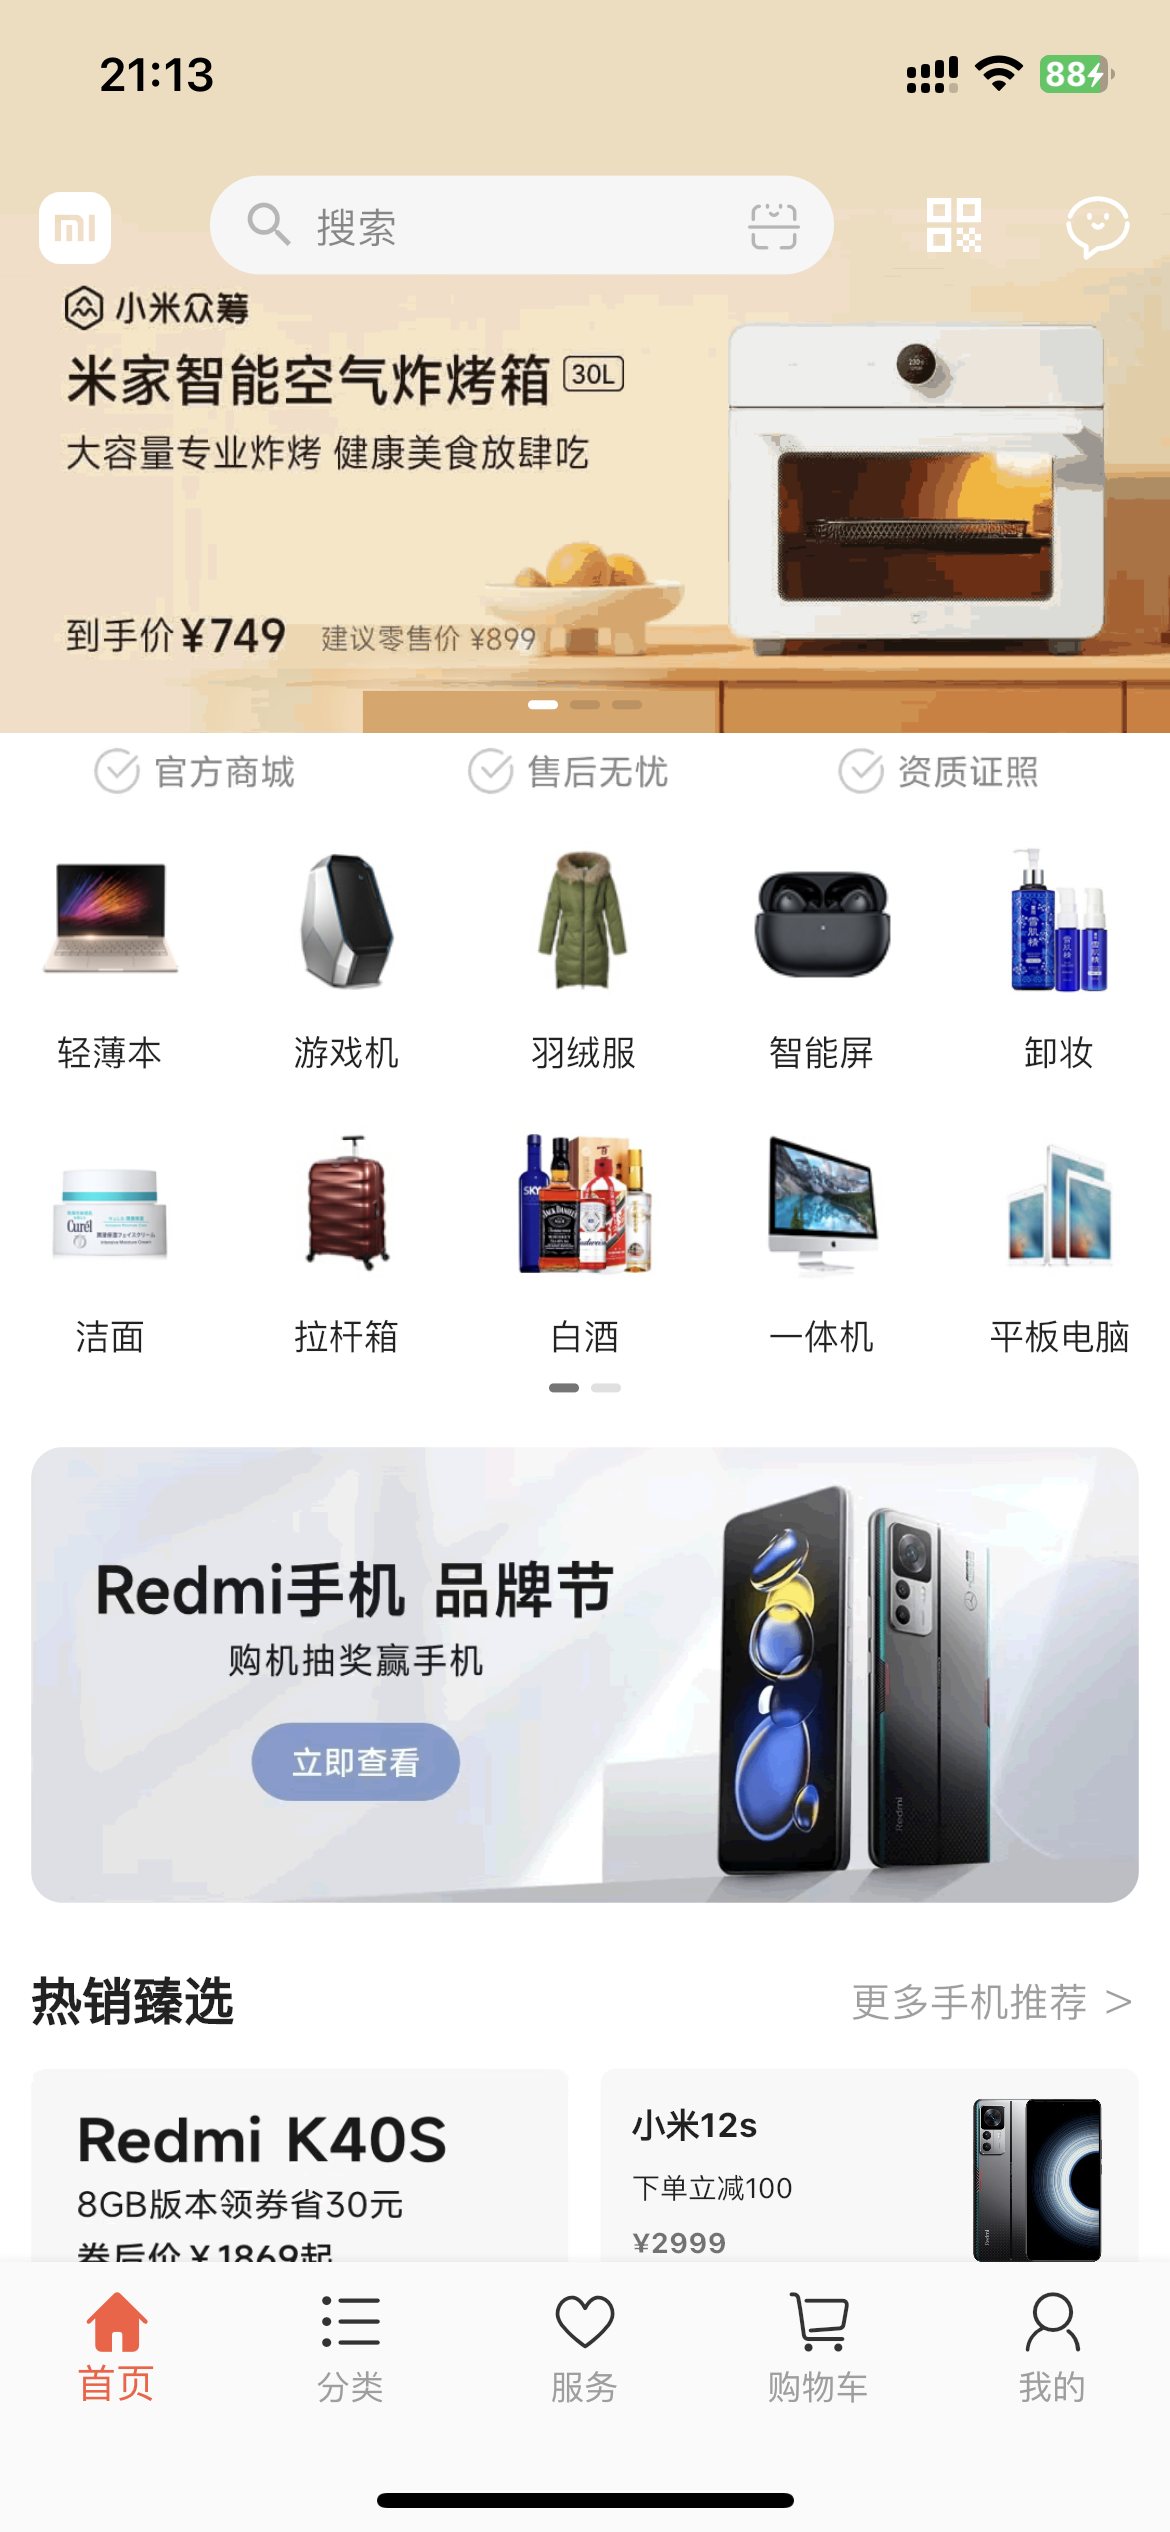
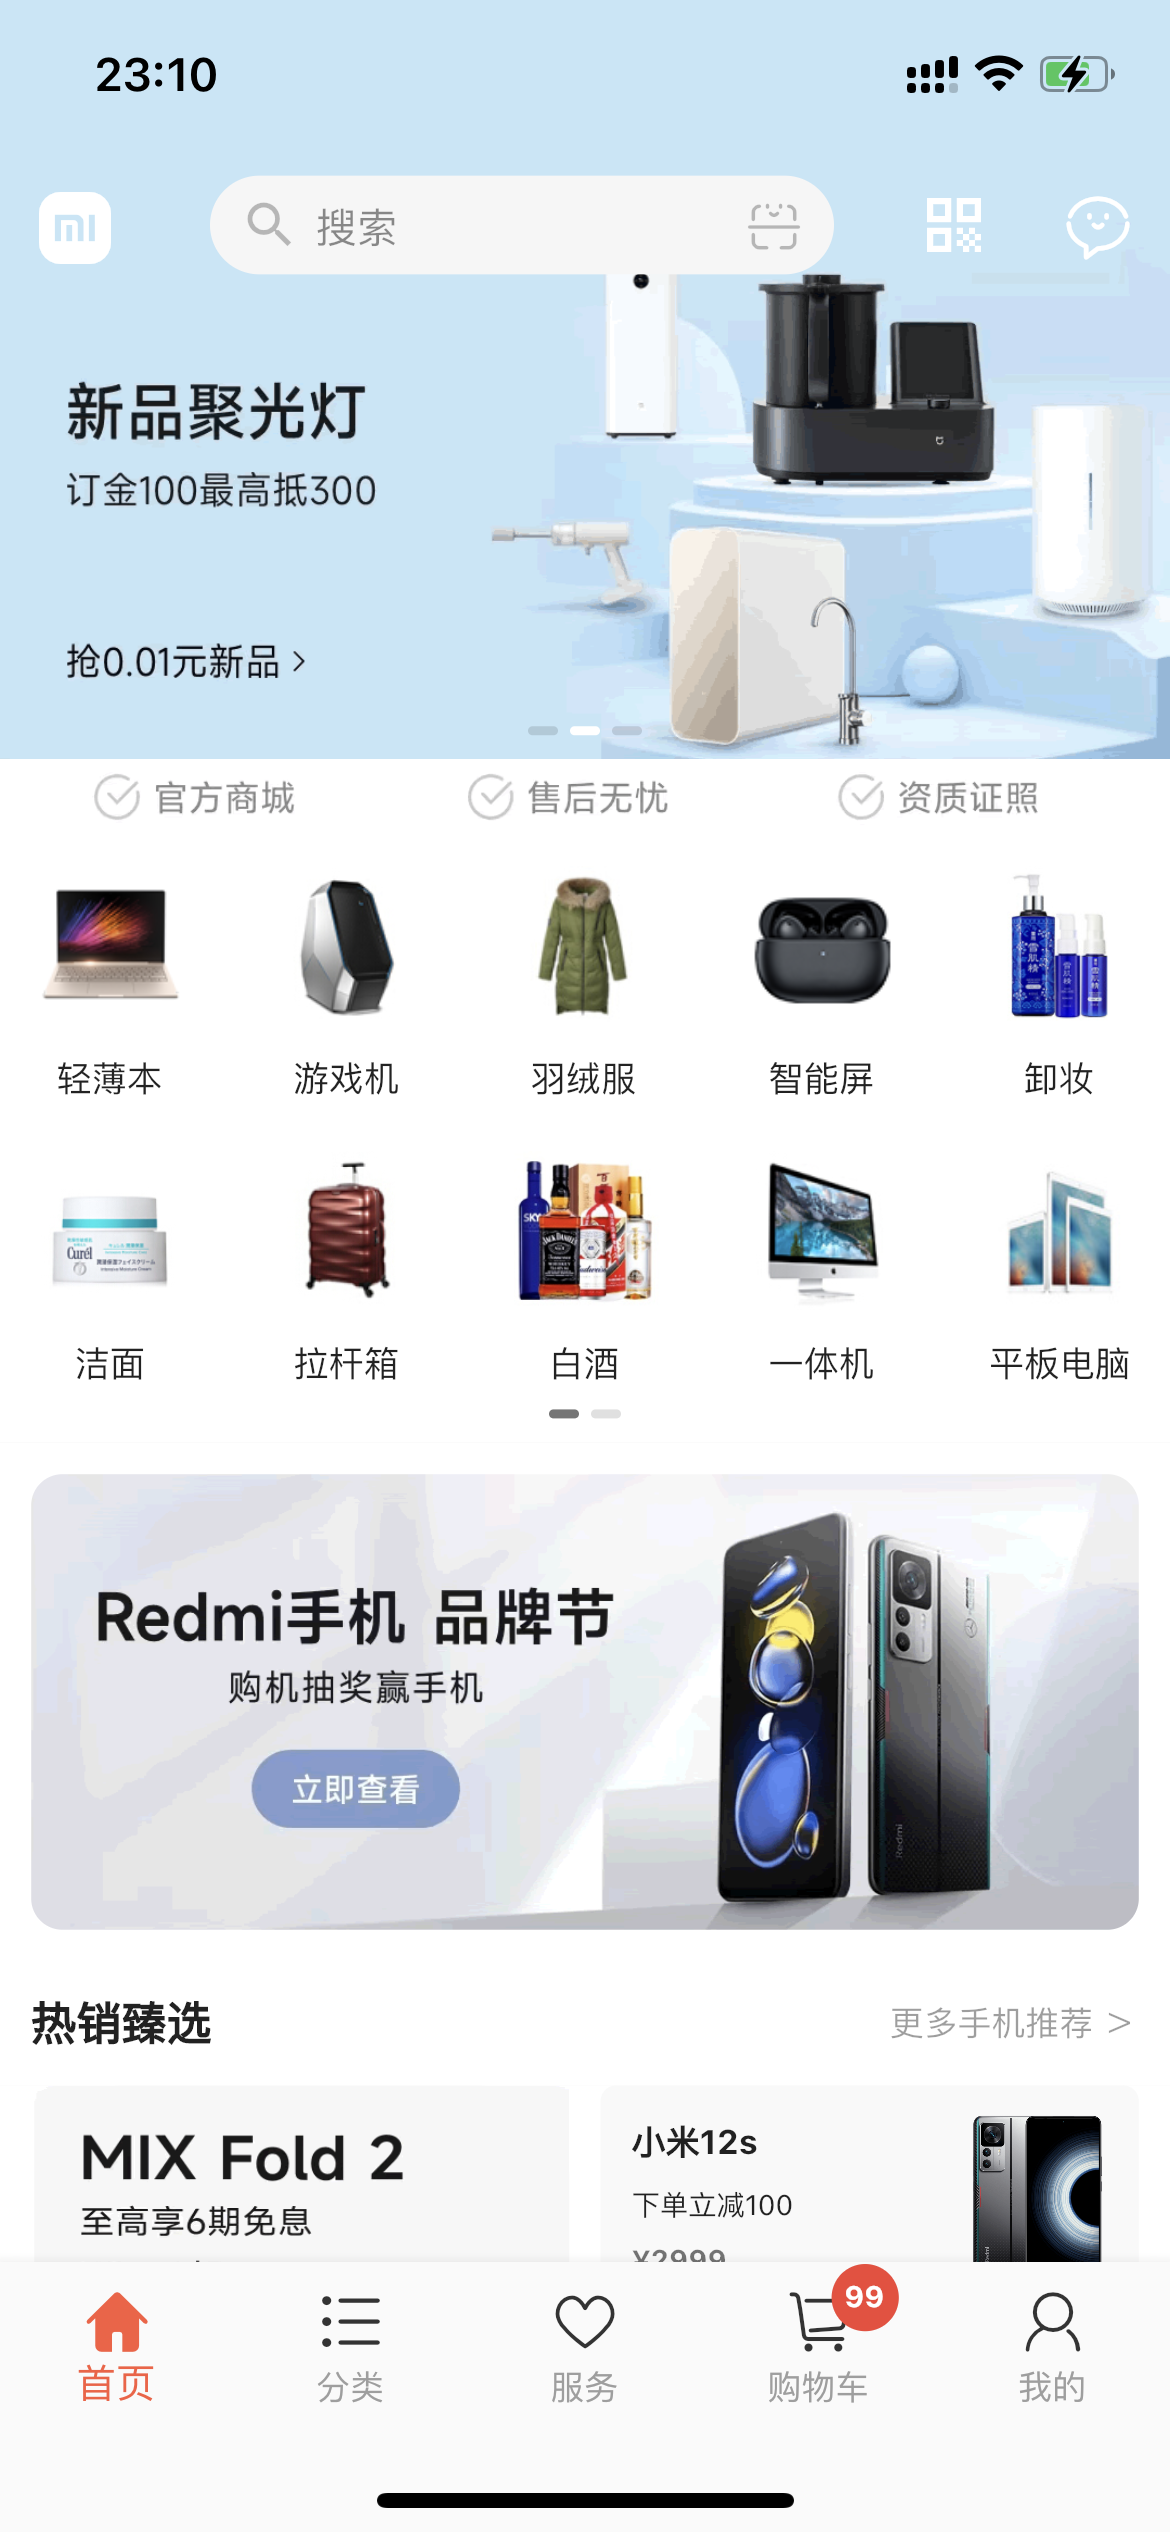
添加drag关闭遮罩；更新README.md

diff --git a/lib/app/modules/goodsList/views/goods_list_view.dart b/lib/app/modules/goodsList/views/goods_list_view.dart
@@ -21,7 +21,7 @@ class GoodsListView extends GetView<GoodsListController> {
           Stack(
             children: [
               _listView(),
-              _topSheet(),
+              _dropdownPositioned(),
               _listHeader(),
             ],
             // children: [const Center(child: Text("没有更多数据了")), _listHeader()],
@@ -280,7 +280,7 @@ class GoodsListView extends GetView<GoodsListController> {
 
   ///方法二：
   ///顶部弹出框
-  Widget _topSheet() {
+  Widget _dropdownPositioned() {
     double popupH = DoScreenAdapter.screenH() -
         DoScreenAdapter.statusH() -
         DoScreenAdapter.navH();
@@ -306,7 +306,10 @@ class GoodsListView extends GetView<GoodsListController> {
                     //忽略点击事件，不影响下层的点击事件
                     //AbsorbPointer消费掉点击事件，下层也收不到，不会做出相应
                     ignoring: controller.isShowTopSheet.value ? false : true,
-                    child: InkWell(
+                    child: GestureDetector(
+                      onVerticalDragStart: (details) {
+                        controller.hiddenTopSheet();
+                      },
                       onLongPress: () {
                         controller.hiddenTopSheet();
                       },

diff --git a/lib/app/modules/goodsList/controllers/goods_list_controller.dart b/lib/app/modules/goodsList/controllers/goods_list_controller.dart
@@ -36,7 +36,7 @@ class GoodsListController extends GetxController {
     {"id": 0, "title": "综合", "fields": "all", "sort": -1},
     {"id": 1, "title": "销量", "fields": "salecount", "sort": -1},
     {"id": 2, "title": "价格", "fields": "price", "sort": -1},
-    {"id": 3, "title": "显卡类型"}, //新品优先
+    {"id": 3, "title": "新品优先"}, //新品优先
     {"id": 4, "title": "筛选"},
   ];
   RxInt selectHeaderId = 0.obs;

diff --git a/README.md b/README.md
@@ -46,6 +46,8 @@
 ### 各子页面(iOS为例)
 
 <div align=center>
+<img src="./screenshot/common/044.PNG" width="150"/>
+<img src="./screenshot/common/043.PNG" width="150"/>
 <img src="./screenshot/common/039.PNG" width="150"/>
 <img src="./screenshot/common/040.PNG" width="150"/>
 <img src="./screenshot/common/041.PNG" width="150"/>
@@ -115,7 +117,8 @@
 - [x] app引导页
 - [x] 闪屏活动页功能(可配置)
 - [x] 版本信息获取与展示
-
+- [x] Badge
+- [x] 过滤筛选向下弹框
 
 ### 目录结构
 
@@ -196,17 +199,16 @@
   flutter_native_splash: ^2.2.19
   image_picker: ^0.8.6+4
   barcode_scan2: ^4.2.3
+  badges: ^3.0.3
 ```
 
 ## ToDo
 
 ### Improve
-- [x] 商品列表：过滤按钮展示从上往下弹出的弹框;
 - [x] 商品详情页：详情及推荐头部切换(包含点击与滑动)时，二级头部(商品介绍与规格参数)展示有细微误差,其中包含了二级头部内容长度不同时的问题待修正;
 - [x] 商品详情页中点击购物车，在购物车推荐列表再点击商品进入购物车，如此循环嵌套，其中涉及的商品详情页及购物车整体结构还需要完善;
 
 ### Features
-- [x] Badge
 - [x] 集成地图定位
 - [x] 视频录制及播放功能
 - [x] 集成埋点统计
